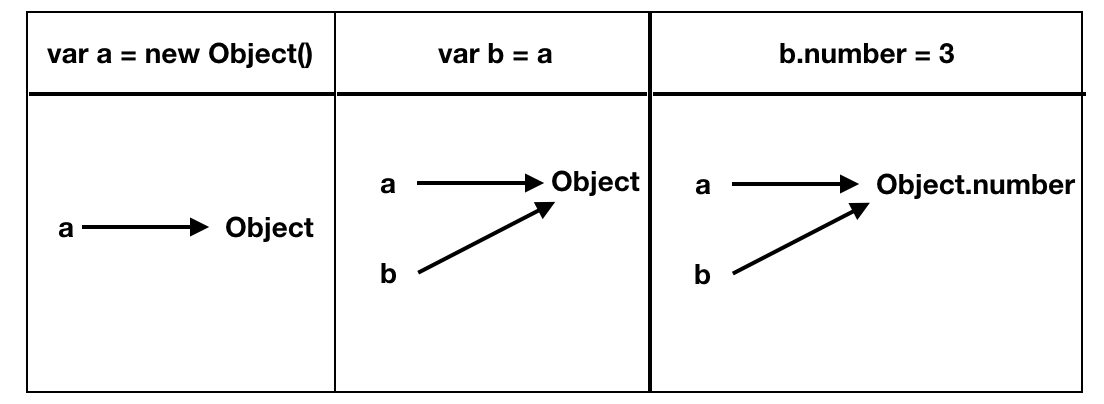
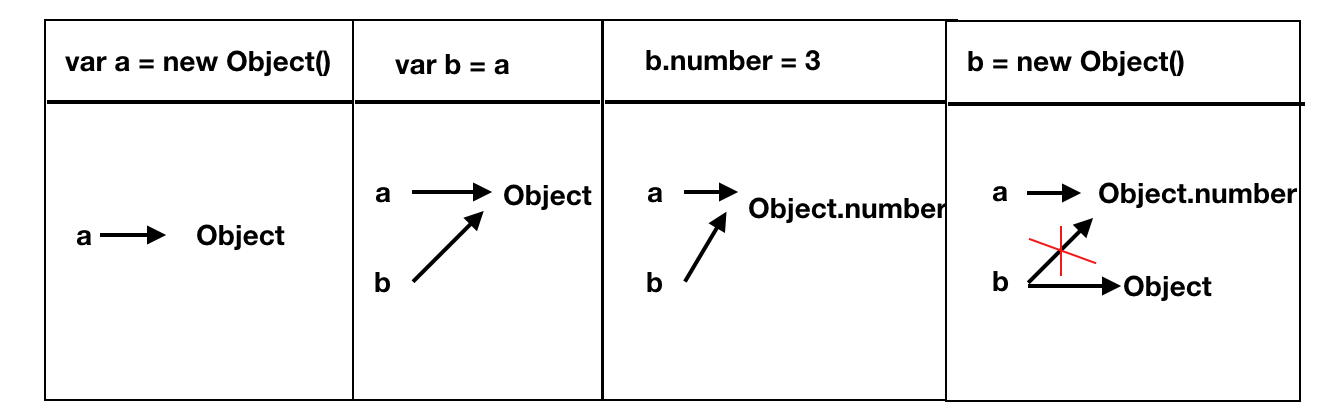
Site updated: 2018-05-26 16:36:01

diff --git a/2018/05/26/JS变量复制/index.html b/2018/05/26/JS变量复制/index.html
@@ -18,7 +18,7 @@
 <meta property="og:locale" content="default">
 <meta property="og:image" content="https://liudeyin1024.github.io/img/d1.png">
 <meta property="og:image" content="https://liudeyin1024.github.io/img/d2.png">
-<meta property="og:updated_time" content="2018-05-26T04:13:11.362Z">
+<meta property="og:updated_time" content="2018-05-26T08:35:41.173Z">
 <meta name="twitter:card" content="summary">
 <meta name="twitter:title" content="JS变量复制">
 <meta name="twitter:description" content="最近在看李松峰、曹力翻译的《JavaScript高级程序设计（第三版）》。关于JS变量复制我有一些自己的理解。">
@@ -179,7 +179,7 @@
 <li>声明变量，在内存中创建变量值，并将变量名指向该内存空间。</li>
 <li>变量复制，在新的内存空间中创建前述过程中值相等的变量，将新的变量名指向新内存空间。过程如下图：<br><img src="/img/d1.png" alt="基本数据类型复制"></li>
 </ul>
-<h2 id="引用类型复制"><a href="#引用类型复制" class="headerlink" title="引用类型复制"></a>引用类型复制</h2><p><strong>实例如下</strong><br><figure class="highlight javascript"><table><tr><td class="gutter"><pre><span class="line">1</span><br><span class="line">2</span><br><span class="line">3</span><br><span class="line">4</span><br></pre></td><td class="code"><pre><span class="line"><span class="keyword">var</span> a = <span class="keyword">new</span> <span class="built_in">Object</span>();</span><br><span class="line"><span class="keyword">var</span> b = a;</span><br><span class="line">b.number = <span class="number">3</span>;</span><br><span class="line"><span class="built_in">console</span>.log(a);<span class="comment">//&#123;number:3&#125;</span></span><br></pre></td></tr></table></figure></p>
+<h2 id="引用类型复制"><a href="#引用类型复制" class="headerlink" title="引用类型复制"></a>引用类型复制</h2><p><strong>实例如下</strong><br><figure class="highlight javascript"><table><tr><td class="gutter"><pre><span class="line">1</span><br><span class="line">2</span><br><span class="line">3</span><br><span class="line">4</span><br><span class="line">5</span><br><span class="line">6</span><br><span class="line">7</span><br><span class="line">8</span><br></pre></td><td class="code"><pre><span class="line"><span class="keyword">var</span> a = <span class="keyword">new</span> <span class="built_in">Object</span>();</span><br><span class="line"><span class="keyword">var</span> b = a;</span><br><span class="line">b.number = <span class="number">3</span>;</span><br><span class="line"><span class="built_in">console</span>.log(a);<span class="comment">//&#123;number:3&#125;</span></span><br><span class="line">b = <span class="keyword">new</span> <span class="built_in">Object</span>();</span><br><span class="line">b.name = <span class="string">"haha"</span>;</span><br><span class="line"><span class="built_in">console</span>.log(b);<span class="comment">//&#123;name:"haha"&#125;</span></span><br><span class="line"><span class="built_in">console</span>.log(a);<span class="comment">//&#123;number:3&#125;</span></span><br></pre></td></tr></table></figure></p>
 <p><strong>解释</strong></p>
 <ul>
 <li>变量声明，通过<code>new</code>关键字，开辟新的内存空间，并把变量名指向该内存空间。</li>
@@ -410,19 +410,19 @@ MathJax.Hub.Queue(function() {
               </li>
              
               <li class="article-tag-list-item">
-                <a href="javascript:void(0)" class="js-tag color5">学习资料</a>
-              </li>
-             
-              <li class="article-tag-list-item">
-                <a href="javascript:void(0)" class="js-tag color3">分享</a>
-              </li>
-             
-              <li class="article-tag-list-item">
                 <a href="javascript:void(0)" class="js-tag color3">随笔</a>
               </li>
              
               <li class="article-tag-list-item">
                 <a href="javascript:void(0)" class="js-tag color5">flag</a>
+              </li>
+             
+              <li class="article-tag-list-item">
+                <a href="javascript:void(0)" class="js-tag color5">学习资料</a>
+              </li>
+             
+              <li class="article-tag-list-item">
+                <a href="javascript:void(0)" class="js-tag color3">分享</a>
               </li>
             
             <div class="clearfix"></div>

diff --git a/2018/04/28/HelloWorld/index.html b/2018/04/28/HelloWorld/index.html
@@ -398,19 +398,19 @@ MathJax.Hub.Queue(function() {
               </li>
              
               <li class="article-tag-list-item">
-                <a href="javascript:void(0)" class="js-tag color5">学习资料</a>
-              </li>
-             
-              <li class="article-tag-list-item">
-                <a href="javascript:void(0)" class="js-tag color3">分享</a>
-              </li>
-             
-              <li class="article-tag-list-item">
                 <a href="javascript:void(0)" class="js-tag color3">随笔</a>
               </li>
              
               <li class="article-tag-list-item">
                 <a href="javascript:void(0)" class="js-tag color5">flag</a>
+              </li>
+             
+              <li class="article-tag-list-item">
+                <a href="javascript:void(0)" class="js-tag color5">学习资料</a>
+              </li>
+             
+              <li class="article-tag-list-item">
+                <a href="javascript:void(0)" class="js-tag color3">分享</a>
               </li>
             
             <div class="clearfix"></div>

diff --git a/2018/04/29/学习资料/index.html b/2018/04/29/学习资料/index.html
@@ -406,19 +406,19 @@ MathJax.Hub.Queue(function() {
               </li>
              
               <li class="article-tag-list-item">
-                <a href="javascript:void(0)" class="js-tag color5">学习资料</a>
-              </li>
-             
-              <li class="article-tag-list-item">
-                <a href="javascript:void(0)" class="js-tag color3">分享</a>
-              </li>
-             
-              <li class="article-tag-list-item">
                 <a href="javascript:void(0)" class="js-tag color3">随笔</a>
               </li>
              
               <li class="article-tag-list-item">
                 <a href="javascript:void(0)" class="js-tag color5">flag</a>
+              </li>
+             
+              <li class="article-tag-list-item">
+                <a href="javascript:void(0)" class="js-tag color5">学习资料</a>
+              </li>
+             
+              <li class="article-tag-list-item">
+                <a href="javascript:void(0)" class="js-tag color3">分享</a>
               </li>
             
             <div class="clearfix"></div>

diff --git a/archives/2018/04/index.html b/archives/2018/04/index.html
@@ -369,19 +369,19 @@ MathJax.Hub.Queue(function() {
               </li>
              
               <li class="article-tag-list-item">
-                <a href="javascript:void(0)" class="js-tag color5">学习资料</a>
-              </li>
-             
-              <li class="article-tag-list-item">
-                <a href="javascript:void(0)" class="js-tag color3">分享</a>
-              </li>
-             
-              <li class="article-tag-list-item">
                 <a href="javascript:void(0)" class="js-tag color3">随笔</a>
               </li>
              
               <li class="article-tag-list-item">
                 <a href="javascript:void(0)" class="js-tag color5">flag</a>
+              </li>
+             
+              <li class="article-tag-list-item">
+                <a href="javascript:void(0)" class="js-tag color5">学习资料</a>
+              </li>
+             
+              <li class="article-tag-list-item">
+                <a href="javascript:void(0)" class="js-tag color3">分享</a>
               </li>
             
             <div class="clearfix"></div>

diff --git a/archives/2018/05/index.html b/archives/2018/05/index.html
@@ -331,19 +331,19 @@ MathJax.Hub.Queue(function() {
               </li>
              
               <li class="article-tag-list-item">
-                <a href="javascript:void(0)" class="js-tag color5">学习资料</a>
-              </li>
-             
-              <li class="article-tag-list-item">
-                <a href="javascript:void(0)" class="js-tag color3">分享</a>
-              </li>
-             
-              <li class="article-tag-list-item">
                 <a href="javascript:void(0)" class="js-tag color3">随笔</a>
               </li>
              
               <li class="article-tag-list-item">
                 <a href="javascript:void(0)" class="js-tag color5">flag</a>
+              </li>
+             
+              <li class="article-tag-list-item">
+                <a href="javascript:void(0)" class="js-tag color5">学习资料</a>
+              </li>
+             
+              <li class="article-tag-list-item">
+                <a href="javascript:void(0)" class="js-tag color3">分享</a>
               </li>
             
             <div class="clearfix"></div>

diff --git a/archives/2018/index.html b/archives/2018/index.html
@@ -415,19 +415,19 @@ MathJax.Hub.Queue(function() {
               </li>
              
               <li class="article-tag-list-item">
-                <a href="javascript:void(0)" class="js-tag color5">学习资料</a>
-              </li>
-             
-              <li class="article-tag-list-item">
-                <a href="javascript:void(0)" class="js-tag color3">分享</a>
-              </li>
-             
-              <li class="article-tag-list-item">
                 <a href="javascript:void(0)" class="js-tag color3">随笔</a>
               </li>
              
               <li class="article-tag-list-item">
                 <a href="javascript:void(0)" class="js-tag color5">flag</a>
+              </li>
+             
+              <li class="article-tag-list-item">
+                <a href="javascript:void(0)" class="js-tag color5">学习资料</a>
+              </li>
+             
+              <li class="article-tag-list-item">
+                <a href="javascript:void(0)" class="js-tag color3">分享</a>
               </li>
             
             <div class="clearfix"></div>

diff --git a/archives/index.html b/archives/index.html
@@ -415,19 +415,19 @@ MathJax.Hub.Queue(function() {
               </li>
              
               <li class="article-tag-list-item">
-                <a href="javascript:void(0)" class="js-tag color5">学习资料</a>
-              </li>
-             
-              <li class="article-tag-list-item">
-                <a href="javascript:void(0)" class="js-tag color3">分享</a>
-              </li>
-             
-              <li class="article-tag-list-item">
                 <a href="javascript:void(0)" class="js-tag color3">随笔</a>
               </li>
              
               <li class="article-tag-list-item">
                 <a href="javascript:void(0)" class="js-tag color5">flag</a>
+              </li>
+             
+              <li class="article-tag-list-item">
+                <a href="javascript:void(0)" class="js-tag color5">学习资料</a>
+              </li>
+             
+              <li class="article-tag-list-item">
+                <a href="javascript:void(0)" class="js-tag color3">分享</a>
               </li>
             
             <div class="clearfix"></div>

diff --git a/index.html b/index.html
@@ -519,19 +519,19 @@ MathJax.Hub.Queue(function() {
               </li>
              
               <li class="article-tag-list-item">
-                <a href="javascript:void(0)" class="js-tag color5">学习资料</a>
-              </li>
-             
-              <li class="article-tag-list-item">
-                <a href="javascript:void(0)" class="js-tag color3">分享</a>
-              </li>
-             
-              <li class="article-tag-list-item">
                 <a href="javascript:void(0)" class="js-tag color3">随笔</a>
               </li>
              
               <li class="article-tag-list-item">
                 <a href="javascript:void(0)" class="js-tag color5">flag</a>
+              </li>
+             
+              <li class="article-tag-list-item">
+                <a href="javascript:void(0)" class="js-tag color5">学习资料</a>
+              </li>
+             
+              <li class="article-tag-list-item">
+                <a href="javascript:void(0)" class="js-tag color3">分享</a>
               </li>
             
             <div class="clearfix"></div>

diff --git a/tags/JS/index.html b/tags/JS/index.html
@@ -331,19 +331,19 @@ MathJax.Hub.Queue(function() {
               </li>
              
               <li class="article-tag-list-item">
-                <a href="javascript:void(0)" class="js-tag color5">学习资料</a>
-              </li>
-             
-              <li class="article-tag-list-item">
-                <a href="javascript:void(0)" class="js-tag color3">分享</a>
-              </li>
-             
-              <li class="article-tag-list-item">
                 <a href="javascript:void(0)" class="js-tag color3">随笔</a>
               </li>
              
               <li class="article-tag-list-item">
                 <a href="javascript:void(0)" class="js-tag color5">flag</a>
+              </li>
+             
+              <li class="article-tag-list-item">
+                <a href="javascript:void(0)" class="js-tag color5">学习资料</a>
+              </li>
+             
+              <li class="article-tag-list-item">
+                <a href="javascript:void(0)" class="js-tag color3">分享</a>
               </li>
             
             <div class="clearfix"></div>

diff --git a/tags/flag/index.html b/tags/flag/index.html
@@ -327,19 +327,19 @@ MathJax.Hub.Queue(function() {
               </li>
              
               <li class="article-tag-list-item">
-                <a href="javascript:void(0)" class="js-tag color5">学习资料</a>
-              </li>
-             
-              <li class="article-tag-list-item">
-                <a href="javascript:void(0)" class="js-tag color3">分享</a>
-              </li>
-             
-              <li class="article-tag-list-item">
                 <a href="javascript:void(0)" class="js-tag color3">随笔</a>
               </li>
              
               <li class="article-tag-list-item">
                 <a href="javascript:void(0)" class="js-tag color5">flag</a>
+              </li>
+             
+              <li class="article-tag-list-item">
+                <a href="javascript:void(0)" class="js-tag color5">学习资料</a>
+              </li>
+             
+              <li class="article-tag-list-item">
+                <a href="javascript:void(0)" class="js-tag color3">分享</a>
               </li>
             
             <div class="clearfix"></div>

diff --git a/tags/分享/index.html b/tags/分享/index.html
@@ -327,19 +327,19 @@ MathJax.Hub.Queue(function() {
               </li>
              
               <li class="article-tag-list-item">
-                <a href="javascript:void(0)" class="js-tag color5">学习资料</a>
-              </li>
-             
-              <li class="article-tag-list-item">
-                <a href="javascript:void(0)" class="js-tag color3">分享</a>
-              </li>
-             
-              <li class="article-tag-list-item">
                 <a href="javascript:void(0)" class="js-tag color3">随笔</a>
               </li>
              
               <li class="article-tag-list-item">
                 <a href="javascript:void(0)" class="js-tag color5">flag</a>
+              </li>
+             
+              <li class="article-tag-list-item">
+                <a href="javascript:void(0)" class="js-tag color5">学习资料</a>
+              </li>
+             
+              <li class="article-tag-list-item">
+                <a href="javascript:void(0)" class="js-tag color3">分享</a>
               </li>
             
             <div class="clearfix"></div>

diff --git a/tags/前端/index.html b/tags/前端/index.html
@@ -331,19 +331,19 @@ MathJax.Hub.Queue(function() {
               </li>
              
               <li class="article-tag-list-item">
-                <a href="javascript:void(0)" class="js-tag color5">学习资料</a>
-              </li>
-             
-              <li class="article-tag-list-item">
-                <a href="javascript:void(0)" class="js-tag color3">分享</a>
-              </li>
-             
-              <li class="article-tag-list-item">
                 <a href="javascript:void(0)" class="js-tag color3">随笔</a>
               </li>
              
               <li class="article-tag-list-item">
                 <a href="javascript:void(0)" class="js-tag color5">flag</a>
+              </li>
+             
+              <li class="article-tag-list-item">
+                <a href="javascript:void(0)" class="js-tag color5">学习资料</a>
+              </li>
+             
+              <li class="article-tag-list-item">
+                <a href="javascript:void(0)" class="js-tag color3">分享</a>
               </li>
             
             <div class="clearfix"></div>
